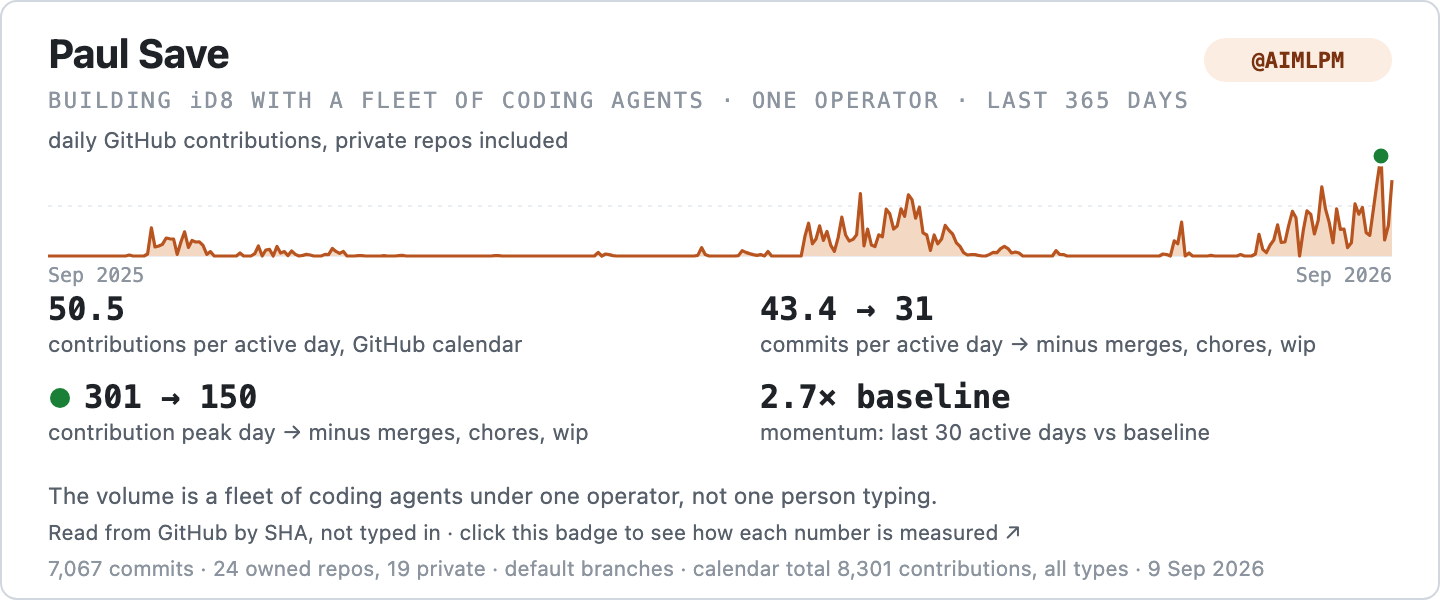
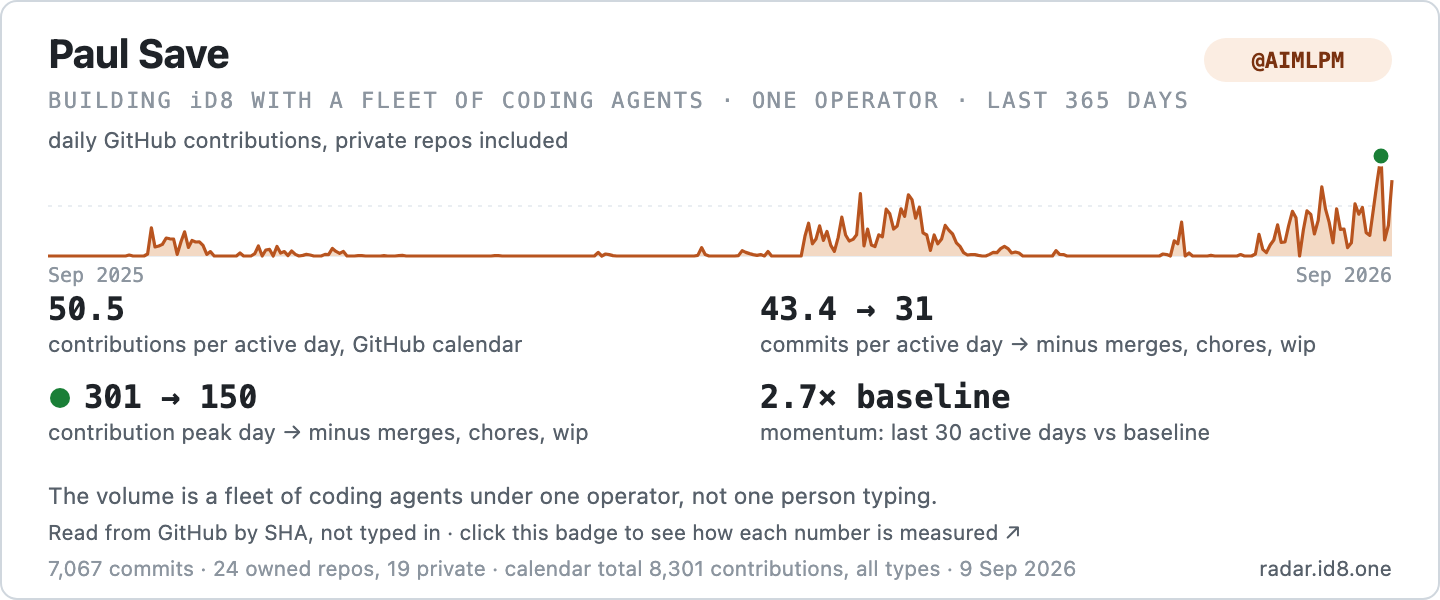
Badge links to the Unlock Radar site; shows radar.id8.one
Claude-Session: https://claude.ai/code/session_01YDT1LGeRkLkQdC4oXFXmet

Changed region(s): [[0.3438, 0.93, 0.9688, 0.96]]

diff --git a/profile/README.md b/profile/README.md
@@ -1,5 +1,5 @@
 <div align="center">
-  <a href="https://github.com/AIMLPM/.github/tree/main/radar">
+  <a href="https://unlock-radar-five.vercel.app/AIMLPM">
     <picture>
       <source media="(prefers-color-scheme: dark)" srcset="https://raw.githubusercontent.com/AIMLPM/.github/main/radar/badge-dark.png" />
       <img alt="Paul Save's Unlock Radar badge: GitHub-served contributions and commits per active day, private included" src="https://raw.githubusercontent.com/AIMLPM/.github/main/radar/badge-light.png" width="720" />
